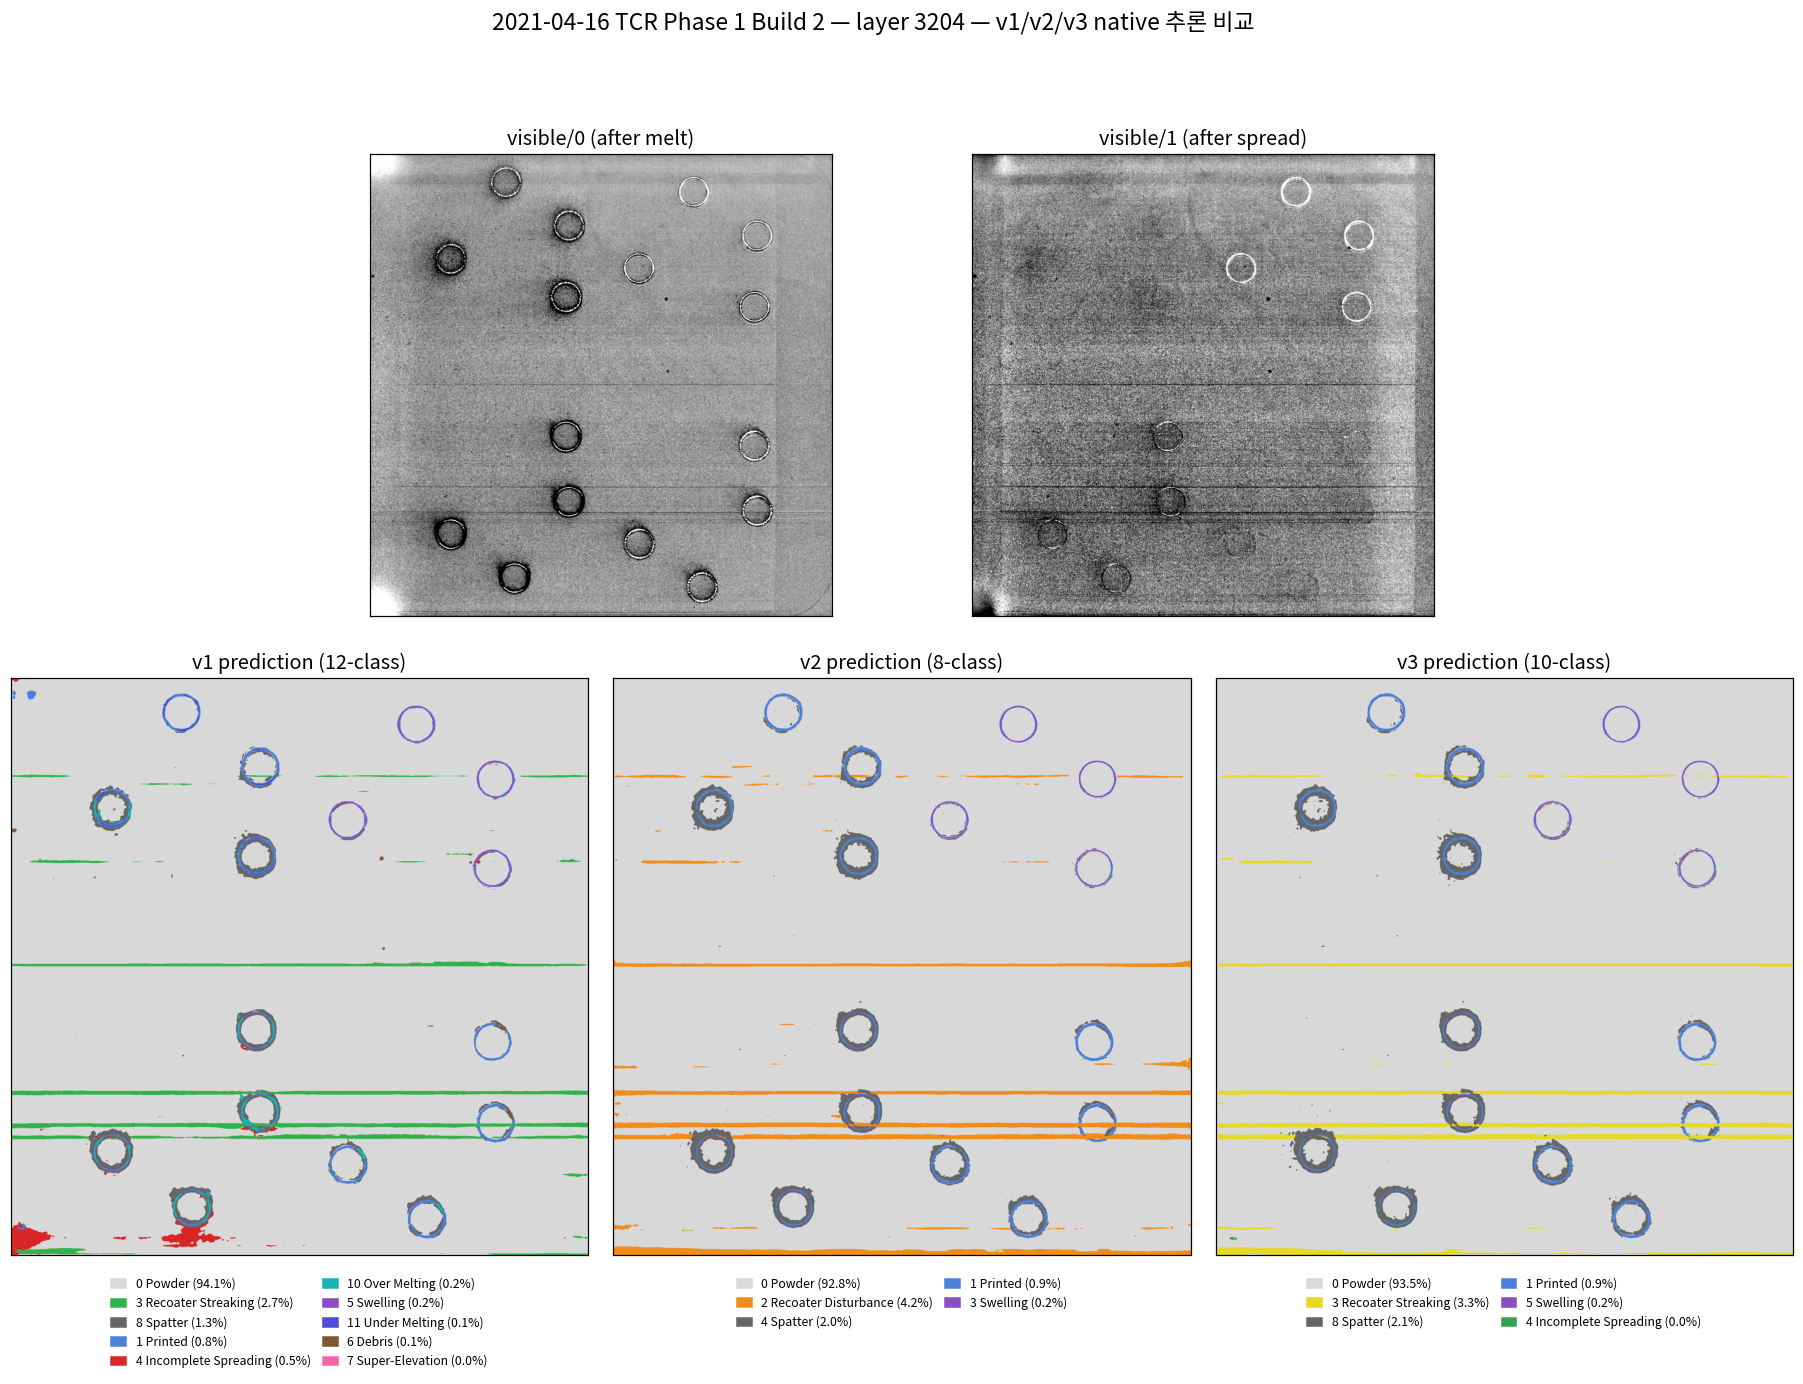
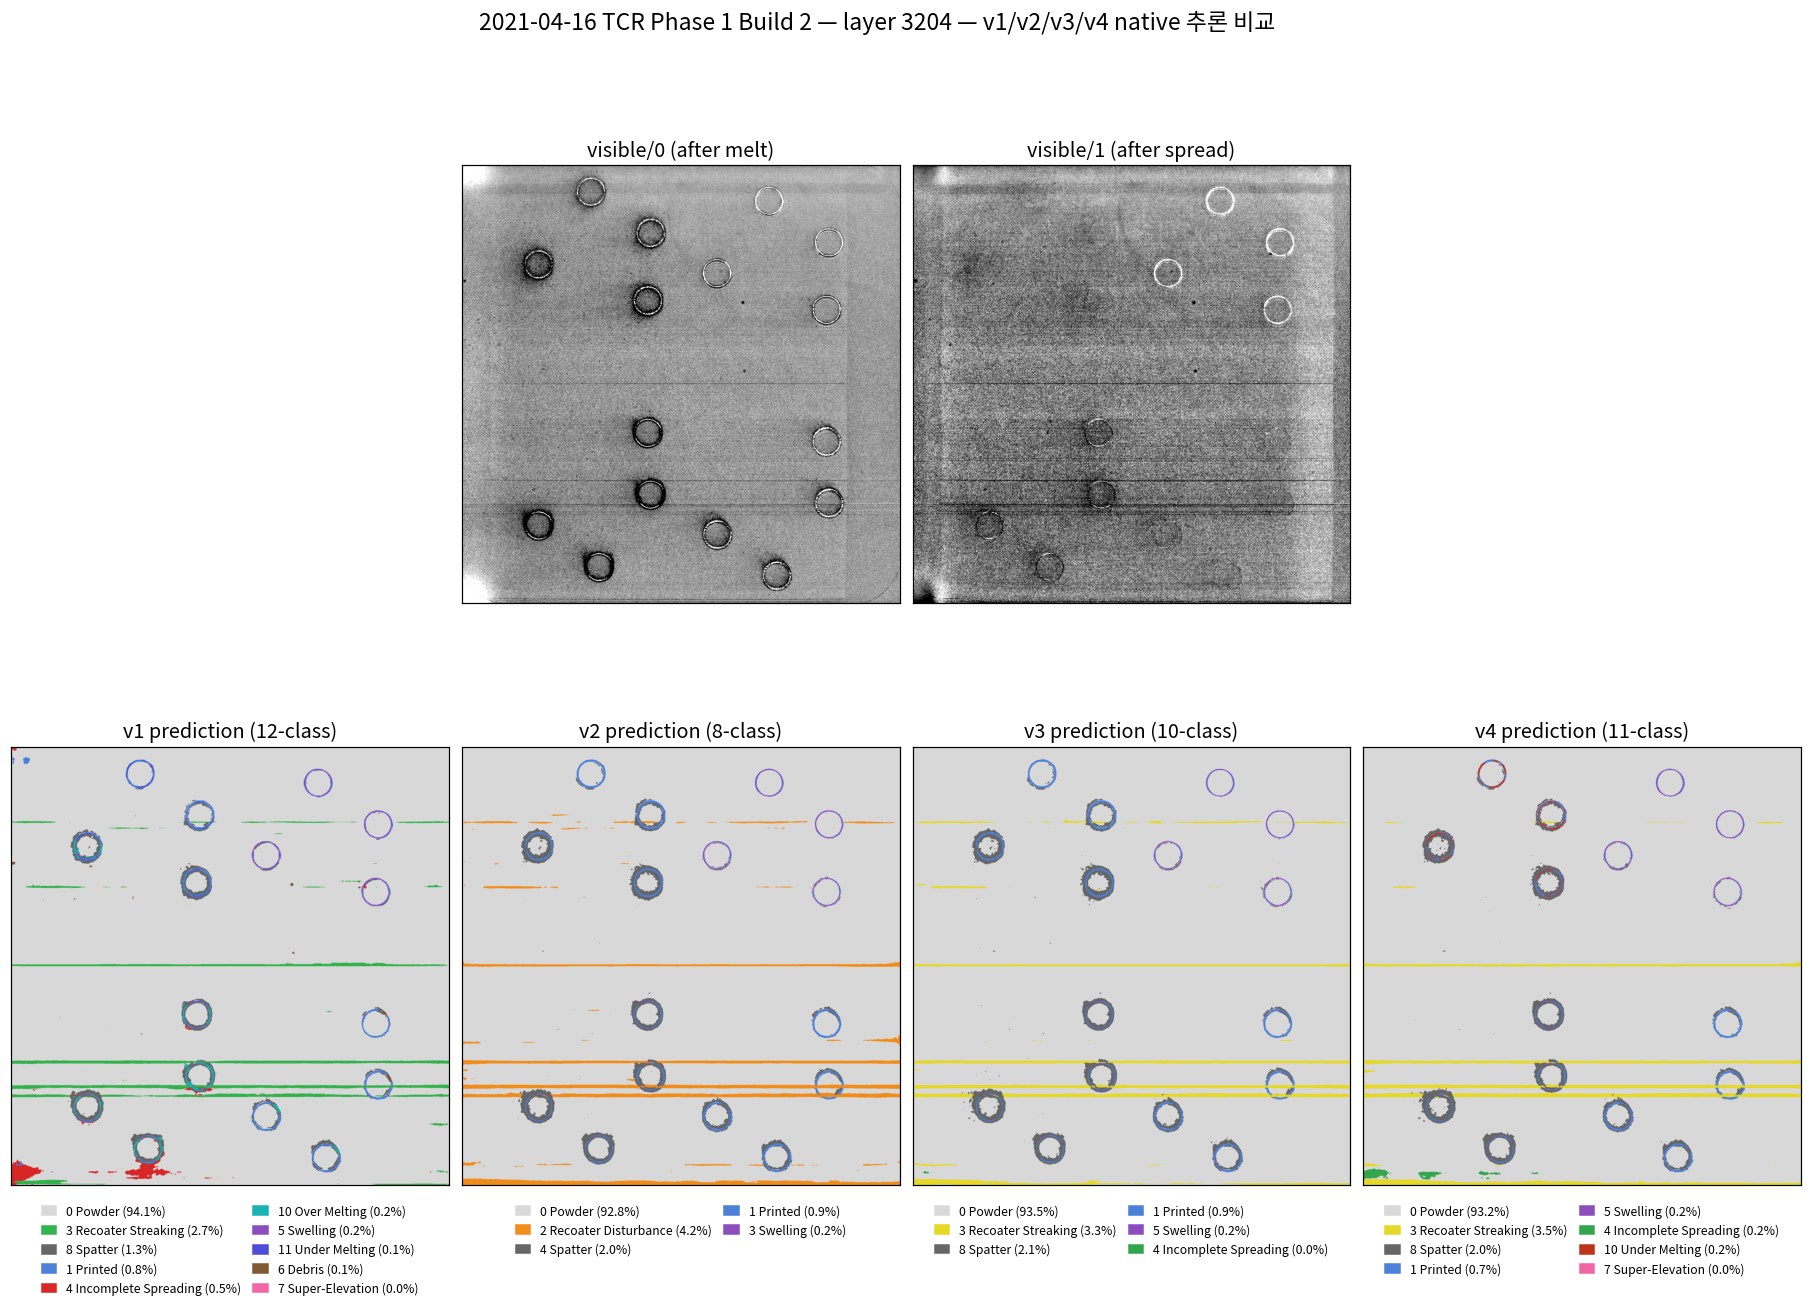
[FEAT] 비교 : native 추론 비교 figure 에 v4(11-class) 패널 추가 (버전 수에 맞춘 GridSpec 배치, 5빌드 figure 재생성)

diff --git a/scripts/figure_v1_v2_v3_native.py b/scripts/figure_v1_v2_v3_native.py
@@ -76,6 +76,19 @@ V3_PALETTE = np.array([
     [0.40, 0.40, 0.40], [0.10, 0.70, 0.70],
 ])
 
+# v4 = 11-class (vitb14_reg backbone). v3 에서 제거됐던 Incomplete Spreading 유지 +
+# Under Melting 신규 학습. Misprint 만 빠짐. 팔레트는 compare_v3_v4 통합 팔레트와 동일.
+V4_NAMES = [
+    "Powder", "Printed", "Recoater Hopping", "Recoater Streaking",
+    "Incomplete Spreading", "Swelling", "Debris", "Super-Elevation",
+    "Spatter", "Over Melting", "Under Melting",
+]
+V4_PALETTE = np.array([
+    [0.85, 0.85, 0.85], [0.30, 0.50, 0.85], [0.95, 0.55, 0.10], [0.90, 0.85, 0.15],
+    [0.20, 0.65, 0.30], [0.55, 0.30, 0.75], [0.50, 0.35, 0.20], [0.95, 0.40, 0.65],
+    [0.40, 0.40, 0.40], [0.10, 0.70, 0.70], [0.75, 0.20, 0.10],
+])
+
 VERSIONS = [
     ("v1", "12-class", V1_NAMES, V1_PALETTE,
      "vits14_dpt_dual_sz1036_1gpu_nanfix/stage2_best.pt"),
@@ -83,6 +96,8 @@ VERSIONS = [
      "vits14_dpt_dual_sz1036_8cls_v2/stage2_best_fold5_v2022_Maraging.pt"),
     ("v3", "10-class", V3_NAMES, V3_PALETTE,
      "vits14_dpt_dual_sz1036_10cls_v3/stage2_best.pt"),
+    ("v4", "11-class", V4_NAMES, V4_PALETTE,
+     "vitb14_reg_dpt_dual_sz1036_11cls_v4/stage2_best.pt"),
 ]
 
 
@@ -132,17 +147,20 @@ def present_class_handles(pred, names, palette):
 # Figure (per layer)
 # ============================================================================
 def make_figure(i0, i1, preds, out_path: Path, title: str) -> None:
-    fig = plt.figure(figsize=(21, 13))
-    gs = gridspec.GridSpec(2, 6, figure=fig, height_ratios=[1.0, 1.25],
+    n = len(VERSIONS)              # 하단 예측 패널 수 (현재 v1/v2/v3/v4 = 4)
+    ncol = 2 * n                   # 패널마다 2칸 → 총 2n칸
+    fig = plt.figure(figsize=(5.25 * n, 13))
+    gs = gridspec.GridSpec(2, ncol, figure=fig, height_ratios=[1.0, 1.25],
                            hspace=0.12, wspace=0.06)
 
-    # 상단: 입력 2장 (가운데 정렬되게 col 1-2, 3-4 사용)
-    ax0 = fig.add_subplot(gs[0, 1:3]); ax0.imshow(i0, cmap="gray")
+    # 상단: 입력 2장 — 하단 패널들 위에 가운데 정렬
+    q = ncol // 4
+    ax0 = fig.add_subplot(gs[0, q:ncol // 2]); ax0.imshow(i0, cmap="gray")
     ax0.set_title("visible/0 (after melt)", fontsize=13)
-    ax1 = fig.add_subplot(gs[0, 3:5]); ax1.imshow(i1, cmap="gray")
+    ax1 = fig.add_subplot(gs[0, ncol // 2:ncol - q]); ax1.imshow(i1, cmap="gray")
     ax1.set_title("visible/1 (after spread)", fontsize=13)
 
-    # 하단: v1/v2/v3 native (각 col 2칸씩)
+    # 하단: 각 버전 native (각 col 2칸씩)
     for k, (vid, vlabel, names, palette, _) in enumerate(VERSIONS):
         ax = fig.add_subplot(gs[1, 2 * k:2 * k + 2])
         pred = preds[vid]
@@ -225,8 +243,9 @@ def main():
                          for vid, m in models.items()}
                 short = build.replace(" ", "_").replace("TCR_Phase_1_", "")
                 out_path = out_dir / f"{short}_layer{li:04d}.png"
+                vstr = "/".join(v[0] for v in VERSIONS)
                 make_figure(i0, i1, preds, out_path,
-                            title=f"{build} — layer {li} — v1/v2/v3 native 추론 비교")
+                            title=f"{build} — layer {li} — {vstr} native 추론 비교")
                 fig_count += 1
                 print(f"  [{fig_count:2d}] saved {out_path.relative_to(REPO_ROOT)}")
 
